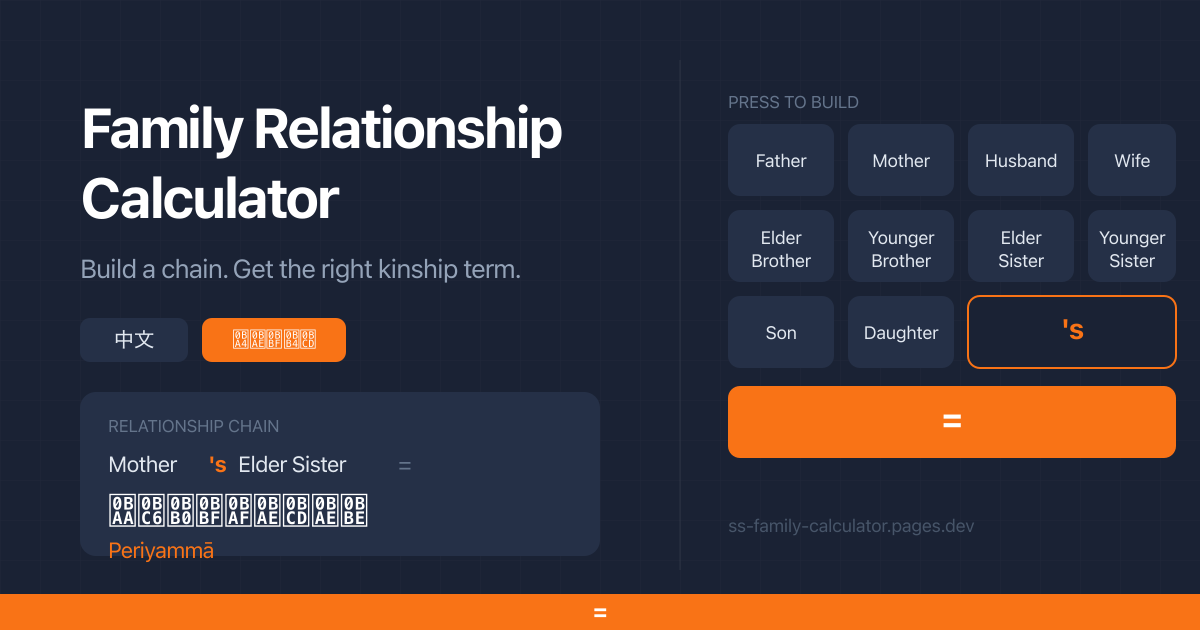
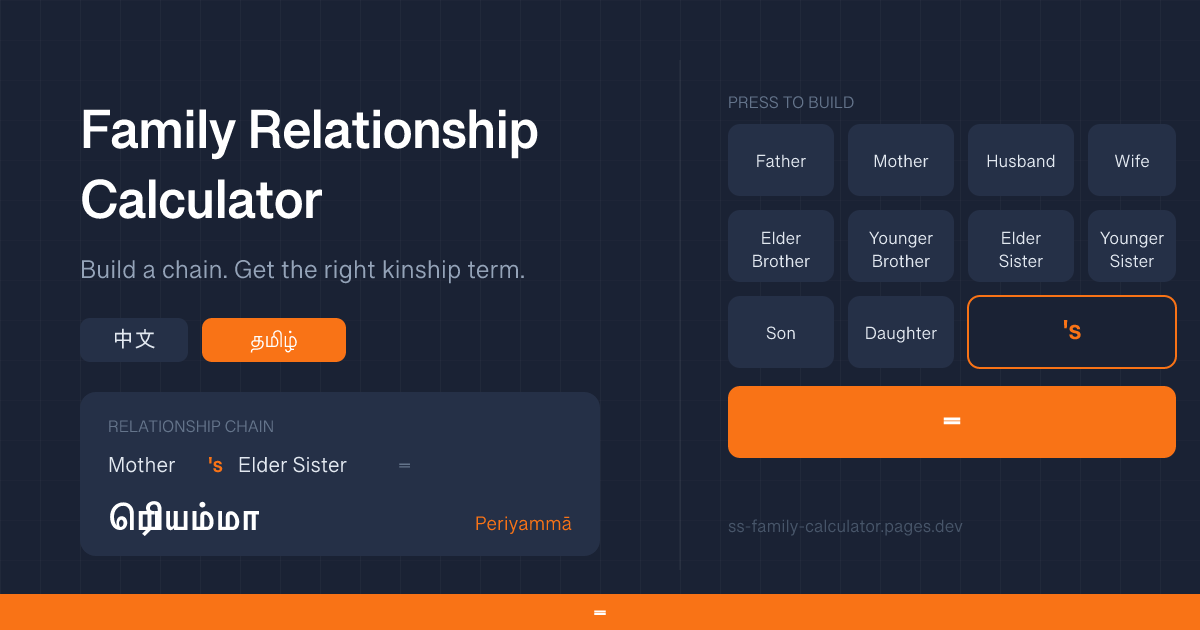
Fix og-image.png rendering

diff --git a/scripts/generate-og-png.js b/scripts/generate-og-png.js
@@ -1,16 +1,32 @@
-import sharp from 'sharp';
-import { readFileSync } from 'fs';
+import { Resvg } from '@resvg/resvg-js';
+import { readFileSync, writeFileSync, existsSync } from 'fs';
 import { fileURLToPath } from 'url';
 import { dirname, resolve } from 'path';
 
 const __dirname = dirname(fileURLToPath(import.meta.url));
 const root = resolve(__dirname, '..');
 
-const svg = readFileSync(resolve(root, 'public/og-image.svg'));
+const svg = readFileSync(resolve(root, 'public/og-image.svg'), 'utf-8');
 
-await sharp(svg)
-  .resize(1200, 630)
-  .png()
-  .toFile(resolve(root, 'public/og-image.png'));
+// Candidate Tamil font paths across platforms.
+// resvg/fontdb supports TTC (font collections) natively.
+const tamilFontCandidates = [
+  // macOS
+  '/System/Library/Fonts/Supplemental/Tamil Sangam MN.ttc',
+  '/System/Library/Fonts/Supplemental/Tamil MN.ttc',
+  // Linux (Ubuntu/Debian)
+  '/usr/share/fonts/truetype/noto/NotoSansTamil-Regular.ttf',
+  '/usr/share/fonts/truetype/lohit-tamil/Lohit-Tamil.ttf',
+];
+const fontFiles = tamilFontCandidates.filter(existsSync);
 
+const resvg = new Resvg(svg, {
+  font: {
+    loadSystemFonts: true,
+    fontFiles,
+  },
+});
+
+const pngData = resvg.render().asPng();
+writeFileSync(resolve(root, 'public/og-image.png'), pngData);
 console.log('Generated public/og-image.png (1200×630)');
